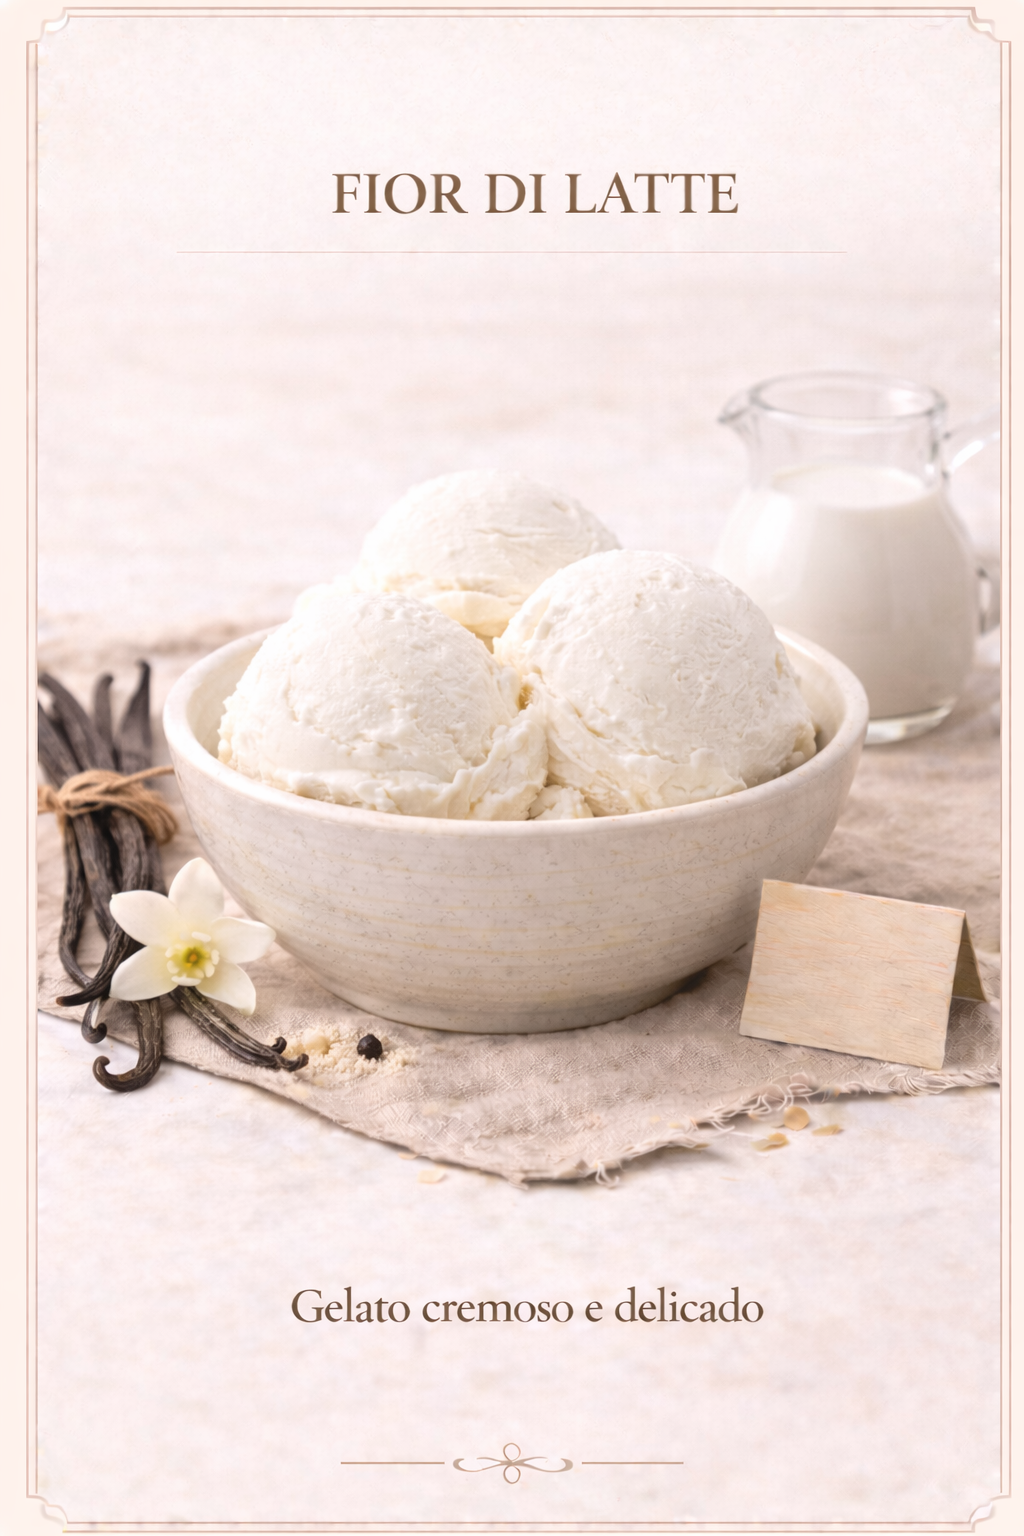
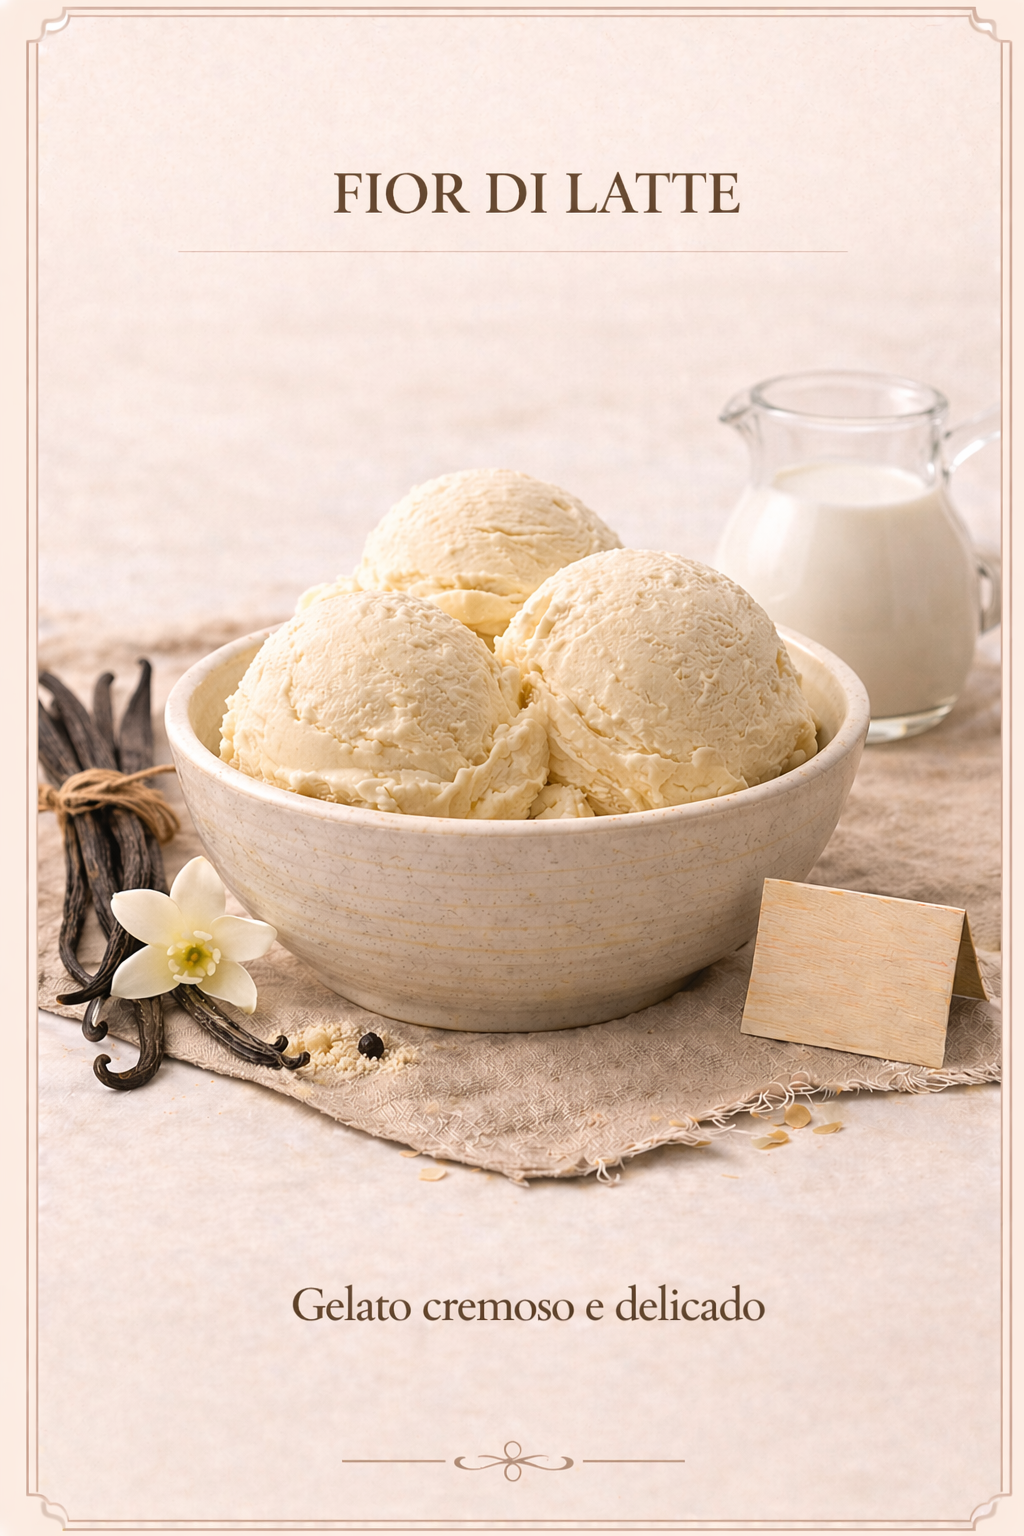
Alterando imagens do carrosel e deixando ele mais responsivo além de adicionar fotos proporcionais no mobile.

diff --git a/stylePaginaQuemSomos.css b/stylePaginaQuemSomos.css
@@ -53,15 +53,41 @@ body{
             width: 0;
         }
 
-        .textoHisstoria {
+        .primeiraImagem2{
+            display: flex;
+            height: auto; 
+            gap: 50px;
+            background-color: #ECDDCC;
+        }
+
+        .primeiraImagem2 img{
+            flex: 2;
+            object-fit: cover;
+            min-width: 0;
+            width: 0;
+        }
+
+        .textoHistoria {
             flex: 1;
             padding: 40px;
             padding-left: 80px;
         }
 
-        .textoHisstoria p {
+        .textoHistoria p {
             font-size: 24px;
             color: #5B4731;
+        }
+
+        .textoHistoria2 {
+            flex: 0.5;
+            padding: 40px;
+            padding-left: 80px;
+        }
+
+        .textoHistoria2 h1 {
+            /* font-size: 16px; */
+            color: #64463F;
+            padding-top: 10%;
         }
 
         .bannerSorvetes img{
@@ -132,15 +158,34 @@ body{
             .primeiraImagem img {
                 width: 100%;
                 min-width: 100%;
-                height: 250px;
+                height: 290px;
             }
 
-            .textoHisstoria {
+            .primeiraImagem2 {
+                flex-direction: column;
+            }
+
+            .primeiraImagem2 img {
+                width: 100%;
+                min-width: 100%;
+                height: 290px;
+            }
+
+            .textoHistoria {
                 padding: 20px;
             }
 
-            .textoHisstoria p {
+            .textoHistoria p {
                 font-size: 16px;
+            }
+
+            .textoHistoria2 {
+                padding: 20px;
+            }
+
+            .textoHistoria2 h1 {
+                font-size: 16px;
+                color: #64463F;
             }
 
             .bannerSorvetes img{

diff --git a/styleTelaPrincipal.css b/styleTelaPrincipal.css
@@ -69,18 +69,15 @@
         }
 
         .grupo img {
-            width: 130vw;
+            width: 100vw;
             height: auto;
+            aspect-ratio: 1920 /800;;
             object-fit: cover;
-            /* object-position: center; */
             flex-shrink: 0;
         }
 
 
         @keyframes spin {
-            from { transform: translateX(0); }
-            to { transform: translateX(-100%); }
-
             0%, 15% {
                 transform: translateX(0);
             }
@@ -104,10 +101,6 @@
             100% {
                 transform: translateX(-100%)
             }
-
-
-
-
         }
 
         .containerCards {
@@ -207,10 +200,8 @@
             }
 
             .grupo img {
-                height: auto;
-                width: 248vw;
-                object-fit: contain;
-            }
+                aspect-ratio: 768 / 576;
+           }
 
             .bannerSorvetes img{
                 height: 220px;

diff --git a/projetoConclusaoHtml.html b/projetoConclusaoHtml.html
@@ -24,9 +24,18 @@
     <main>
         <div class="carrossel">
             <div class="grupo">
-                <img src="imagem1.png" alt="sabor 1">
-                <img src="imagem2.png" alt="sabor 2">
-                <img src="imagem3.png" alt="sabor 3">
+                <picture>
+                    <source media="(max-width: 768px)" srcset="imagem1mobile.png">
+                    <img src="imagem1.png" alt="sabor 1">
+                </picture>
+                <picture>
+                    <source media="(max-width: 768px)" srcset="imagem2mobile.png">
+                    <img src="imagem2.png" alt="sabor 1">
+                </picture>
+                <picture>
+                    <source media="(max-width: 768px)" srcset="imagem3mobile.png">
+                    <img src="imagem3.png" alt="sabor 1">
+                </picture>
                 <img src="imagem4.png" alt="sabor 4">
                 <img src="imagem5.png" alt="sabor 5">
             </div>

diff --git a/pag_quemSomos.html b/pag_quemSomos.html
@@ -24,7 +24,7 @@
     
     <main>
             <section class="primeiraImagem">
-                <div class="textoHisstoria">
+                <div class="textoHistoria">
                     <p>A Gelateria Ma'Vi nasce com um propósito simples, mas especial: levar a verdadeira experiência do gelato artesanal para todos. Acreditamos que o prazer de<br>
 saborear um gelato de alta qualidade não deve ser exclusivo, mas sim acessível, acolhedor e compartilhado.</p>
 
@@ -44,11 +44,11 @@ saborear um gelato de alta qualidade não deve ser exclusivo, mas sim acessível
     </section>
 
 
-    <section class="primeiraImagem">
-                <div class="textoHisstoria">
+    <section class="primeiraImagem2">
+                <div class="textoHistoria2">
                     <h1>Gelateria Ma'Vie sabores que encantam.</h1>
-
                 </div>
+                
                 <img src="bannerConheca.png" alt="Logo MaVie">               
             </section>
     </main>

diff --git a/styleTelaDark.css b/styleTelaDark.css
@@ -200,7 +200,7 @@
             }
 
             .imgQuemSomos img{
-                height: 220px;
+                height: 320px;
             }
 
             .informacoesFooter{